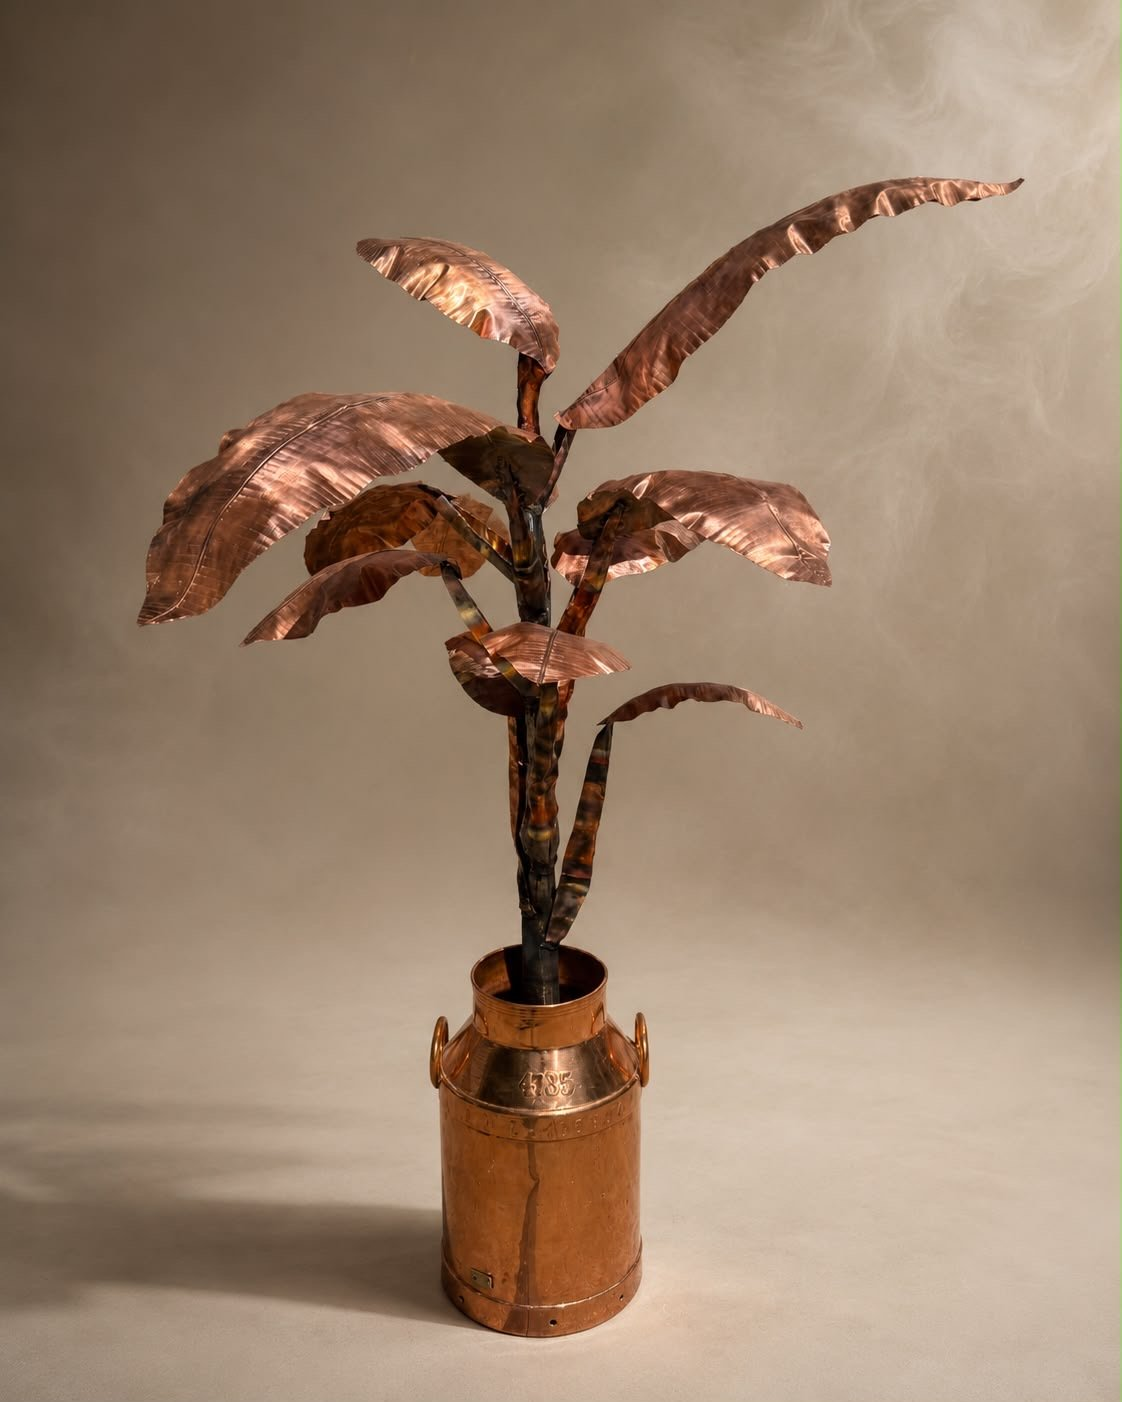
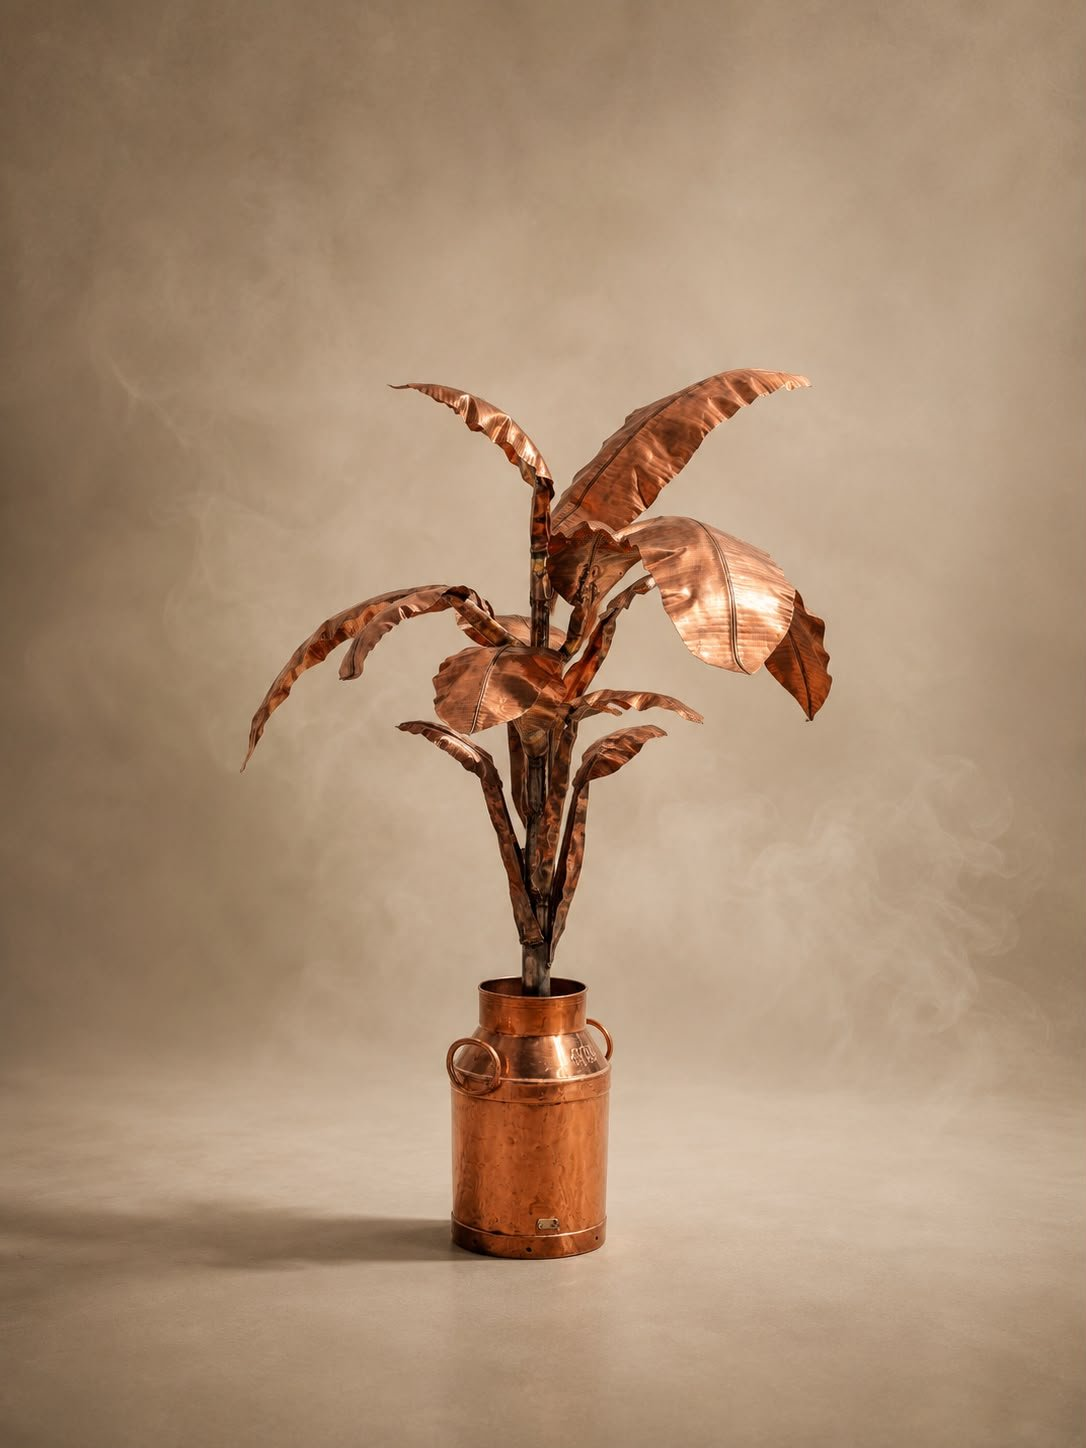
fix: musa basjoo hoofdfoto gecorrigeerd + galerij naar 4 studiofoto's
- hoofdfoto (musa-basjoo.jpg) was werkplaats-shot van losse bladeren -> nu frontaal volledig stuk in koperen melkbus 4385 (bron a04a8cf0)
- volledig -> wijdere frontale studiofoto met rook (bron e2d0cdb0)
- bovenaanzicht -> hoge hoek met dramatische vloerschaduw (bron a804837a)
- blad -> studio close-up enkel blad (bron 751dec8a)
- musa-basjoo-bladkroon.jpg verwijderd: geen echte bladkroon-foto bestond, slot was werkplaats-shot; images-array 5 -> 4

diff --git a/src/data/portfolio.ts b/src/data/portfolio.ts
@@ -47,10 +47,9 @@ export const portfolioItems: PortfolioItem[] = [
     material: "Koper",
     images: [
       "/images/portfolio/musa-basjoo/musa-basjoo.jpg",
-      "/images/portfolio/musa-basjoo/musa-basjoo-bovenaanzicht.jpg",
-      "/images/portfolio/musa-basjoo/musa-basjoo-bladkroon.jpg",
-      "/images/portfolio/musa-basjoo/musa-basjoo-blad.jpg",
       "/images/portfolio/musa-basjoo/musa-basjoo-volledig.jpg",
+      "/images/portfolio/musa-basjoo/musa-basjoo-bovenaanzicht.jpg",
+      "/images/portfolio/musa-basjoo/musa-basjoo-blad.jpg",
     ],
   },
   {
